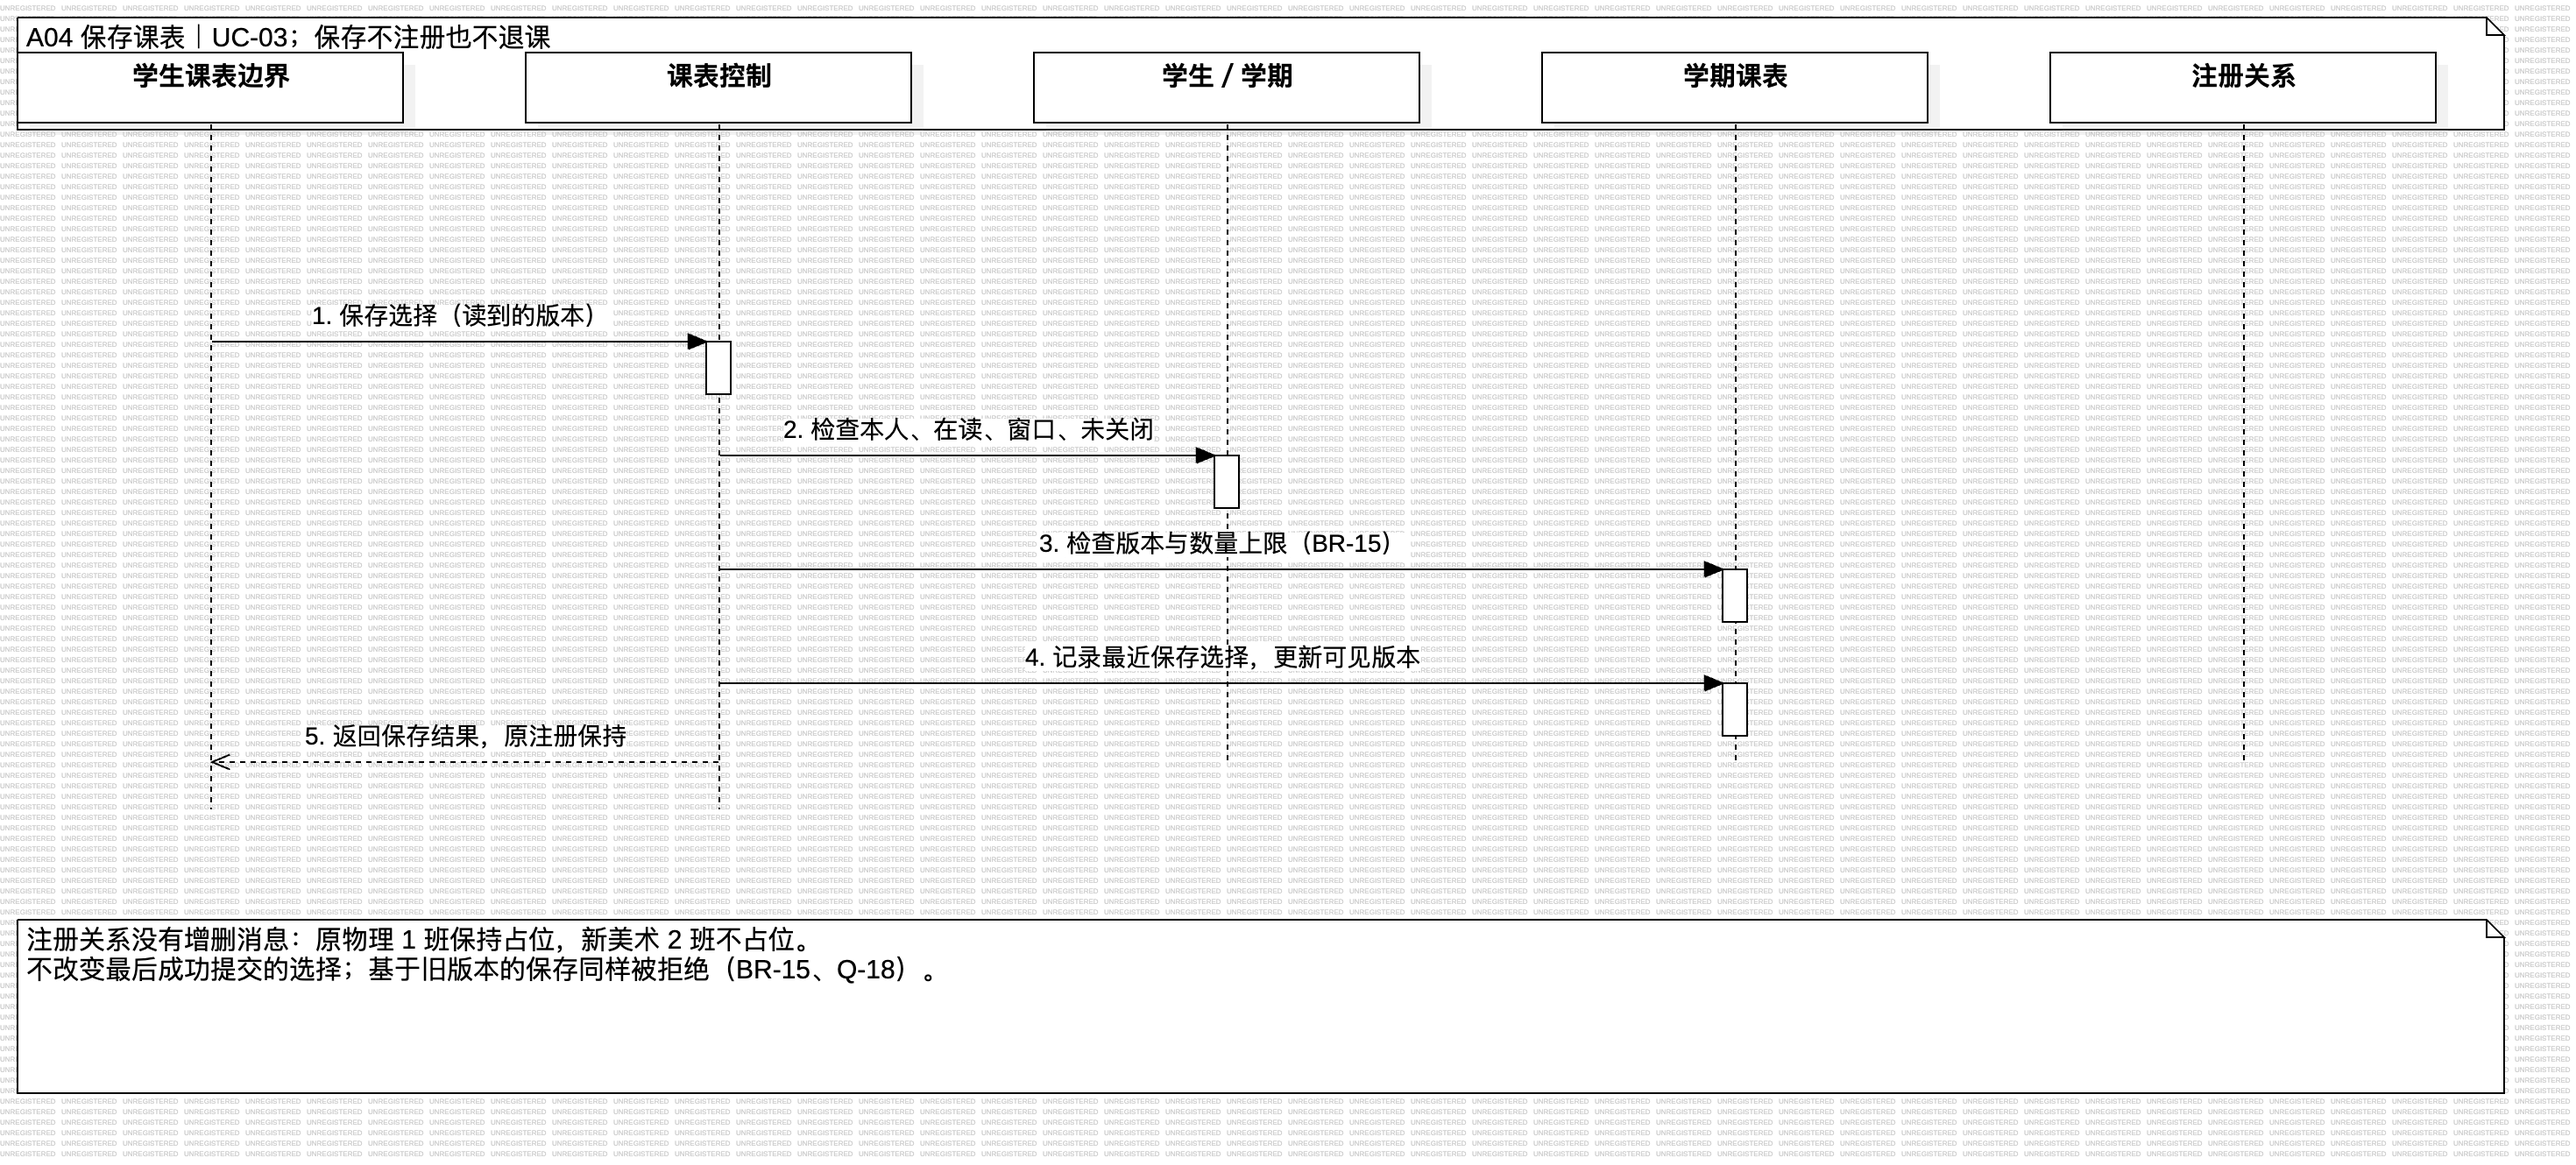
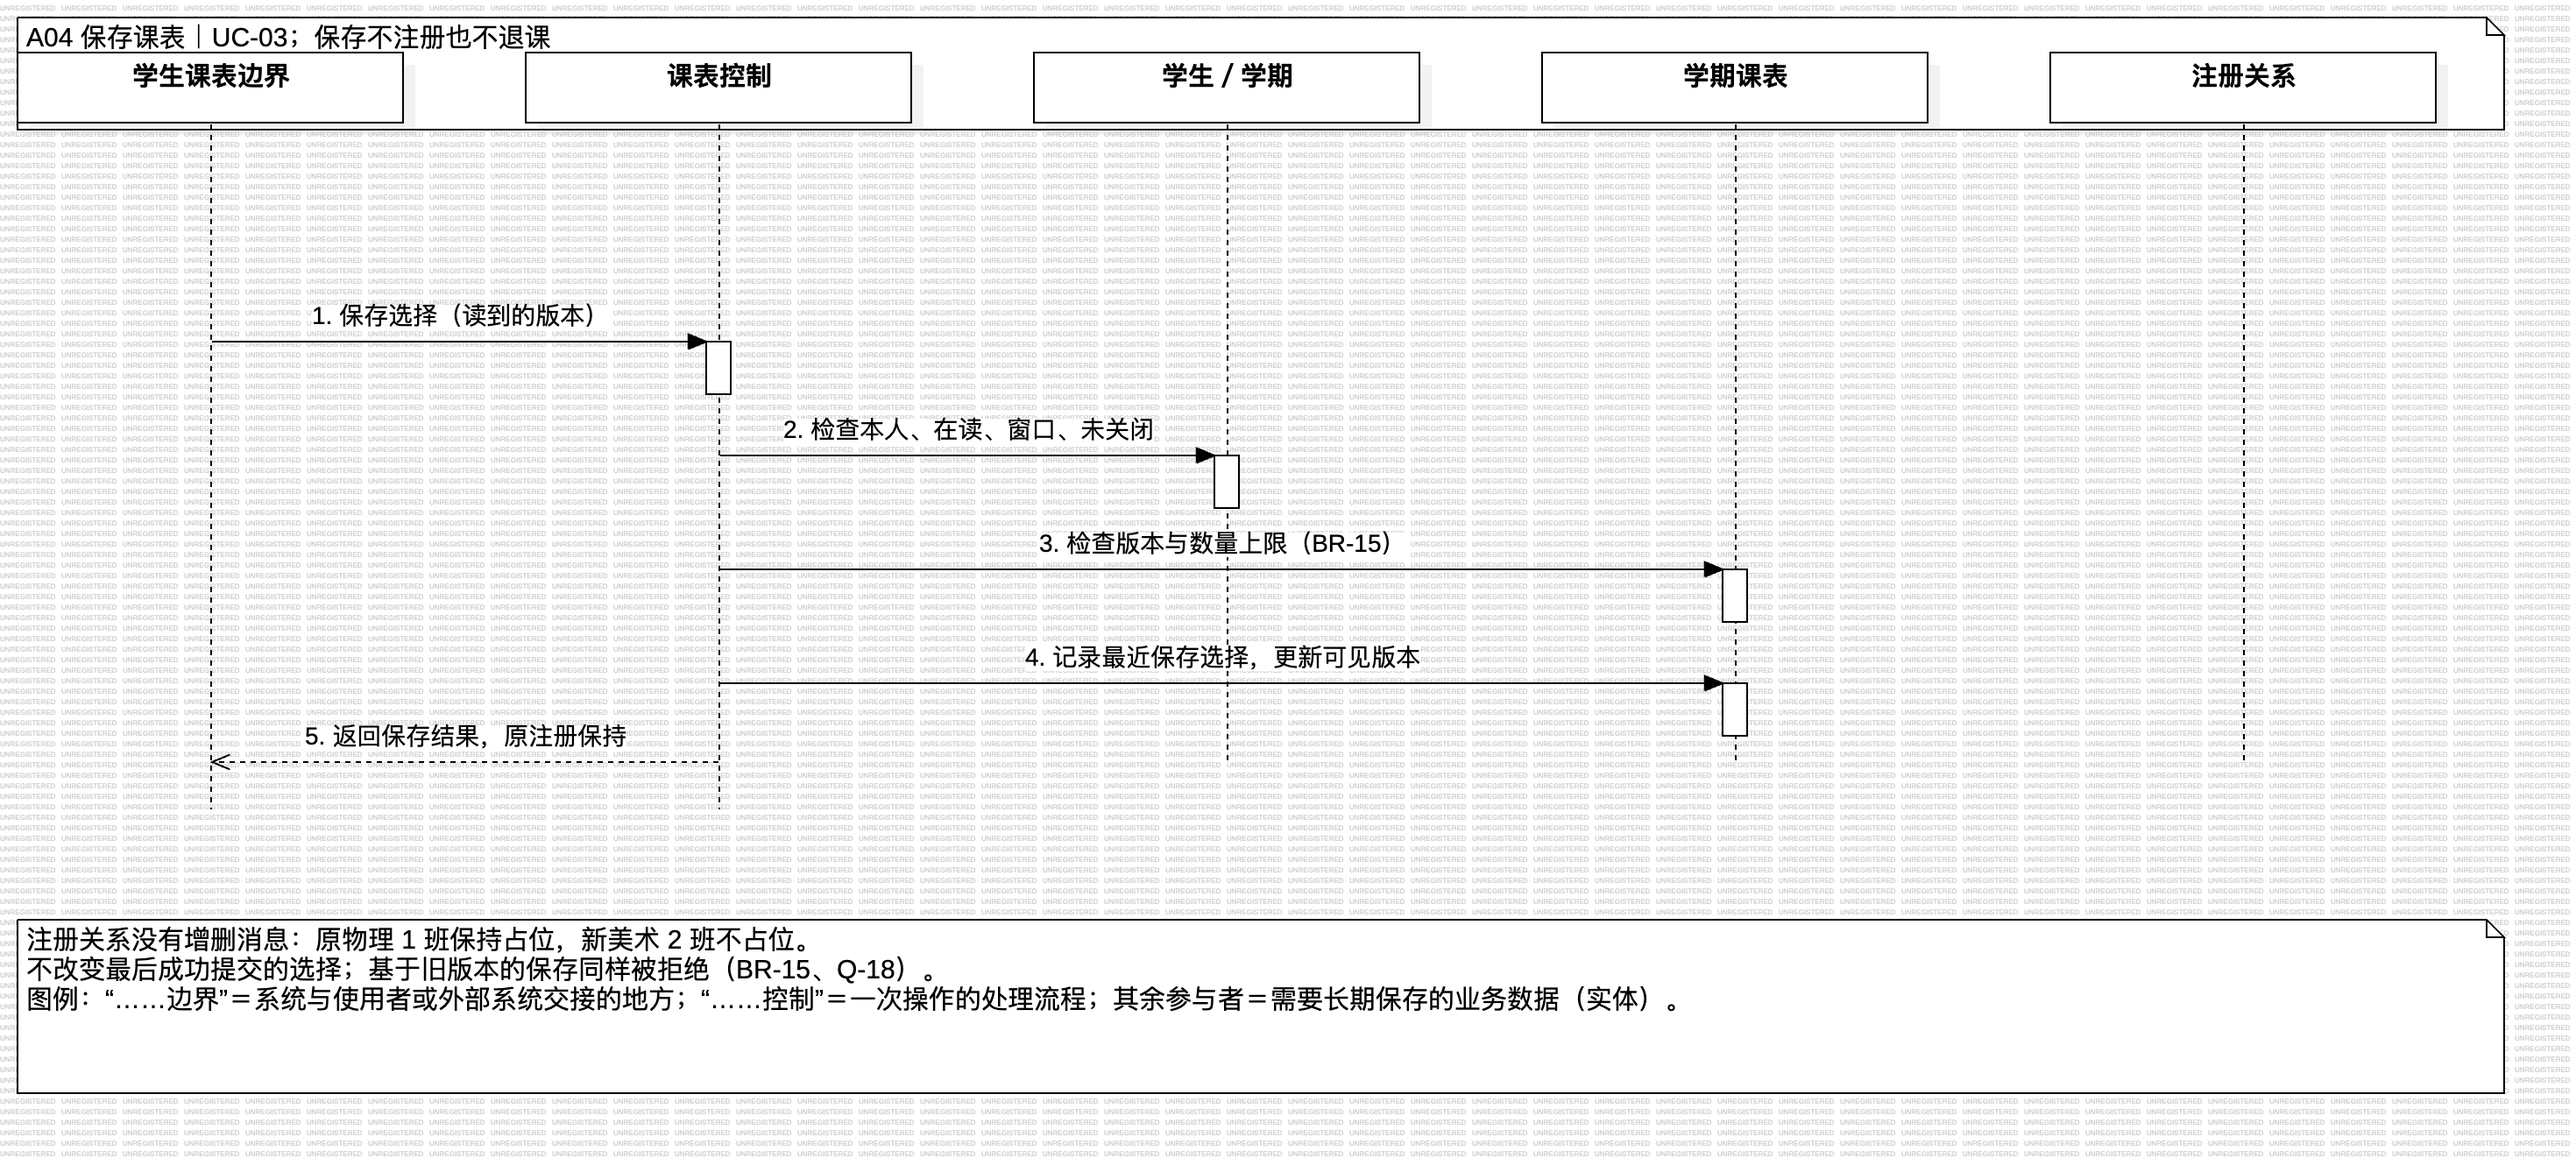
docs(analysis): 为A04—A07顺序图补充分析类图例 (US-028)
倪成锦补看分析图时反馈A04的“学生课表边界”等术语看不懂，在四张顺序图底部注释各加一行图例，说明边界、控制、实体，名称和其余对象不变；StarUML CLI重新导出并合成白底，OOA升至v0.4。
个人汇报2.4节写入对A04、A08的看法，以及“到点自动关闭、教务员手动优先”的意见；是否修改需求标为待定，需求与实现未改。
Markdown lint、仓库检查、diff检查与模型JSON解析通过；四张图已逐张查看。

Refs: US-028
AI-Assisted: Claude Code

Changed region(s): [[0.0619, 0.8323, 0.65, 0.8632], [0.0, 0.8323, 0.031, 0.8632]]

diff --git a/docs/work-reports/nichengjin/report.md b/docs/work-reports/nichengjin/report.md
@@ -123,7 +123,14 @@
 
 建模工具是我在选型时定的。课程主要要求交类图、顺序图等UML图，所以选StarUML，而不是用PlantUML一类文本工具。10月4日我让执行者安装StarUML MCP，并试着用脚本直接生成原生用例图。试用版导出带水印，我决定保留：水印反而能说明图来自真实StarUML模型，不是文本工具直接生成的图片。面向对象分析本身交给Agent完成；连线穿过节点、标签离关联端点太远等版面问题，是Agent逐张看图时自己查出并修正的。
 
-进入总体设计之前，我要求执行者把需求v0.4和OOA整体检查一遍。这次检查查出了R-01—R-04，也发现用例模型还放在被Git忽略的临时目录里、不会被提交；我决定把它移入正式模型目录。分析图我没有逐张审阅，模型是否正确，主要靠Agent的结构检查、看图检查和后续需求复核来保证。团队模型走查仍需真实记录。
+进入总体设计之前，我要求执行者把需求v0.4和OOA整体检查一遍。这次检查查出了R-01—R-04，也发现用例模型还放在被Git忽略的临时目录里、不会被提交；我决定把它移入正式模型目录。分析图在分析阶段我没有逐张审阅，当时模型是否正确，主要靠Agent的结构检查、看图检查和后续需求复核来保证。
+
+10月8日整理汇报时，我补看了两张与本报告主线直接相关的图：
+
+- **A08学期关闭状态图能看懂。**学期从“未关闭”经“正在关闭”到“已关闭”，关闭过程中内部出错就退回“未关闭”。看这张图时我提出一个与现设计不同的想法：按我们学校的习惯，选课截止时间一到就应该自动关闭；教务员手动关闭的优先级更高，可以提前关。现设计是系统不自动关闭，必须由教务员按“关闭选课”，原题的关闭选课用例也是由教务员发起的。**【待定】**是否据此修改需求和实现，还是只作为本人意见记录。
+- **A04保存课表顺序图一开始看不懂**，卡在“学生课表边界”“课表控制”这些名字上。这是课件的分析类术语：边界是系统与使用者或外部系统交接的地方，控制是一次操作的处理流程，其余是需要长期保存的业务数据（实体）。分析阶段只讲职责，所以不直接叫“页面”。图本身没有图例，不了解术语的人第一眼看不懂。我决定在图下加一行图例，不改名字，保留课件要求的术语。A04—A07四张顺序图用的是同一套命名，于是一起加上图例，重新导出（OOA v0.4）。
+
+这次补看让我意识到，图画得对，不等于读的人能看懂；分析模型也要考虑读者。团队模型走查仍需真实记录。
 
 ## 三、总体设计：先固定边界，再决定一致性机制
 
@@ -484,3 +491,4 @@ gate先进入CLOSING、关闭intent随后持久化，期间仍可能有删除请
 | 2026-10-08 | v0.2来源更正 | 根据用户补充确认修正人机协作和决策来源说明；各成员与Agent协作完成代码，人类负责决策，Amp主要用于统一撰写提交信息；不改变技术案例和测试结果 |
 | 2026-10-08 | v0.3 | 依据9月9日至10月8日的Claude Code、Codex及Amp历史会话，补写本人在需求澄清、建模工具、选型与授权、测试安排、性能判断、成员接手与汇报组织中的实际经历；剩余【待本人补充】为会话中没有记录的内容；更正验收执行线程链接 |
 | 2026-10-08 | v0.3续 | 按本人口头答复补写：早期与组内同学讨论规则的两条依据、保存占位的想法转变、未逐张审阅分析图、看过总体设计与数据表、预览系统的整体印象、与冯海伦讨论性能规模、本人选定ADR-003、模拟外部系统的理由及最主要收获 |
+| 2026-10-08 | v0.3续2 | 补写本人补看A04、A08的反馈：A08能看懂，并提出“到点自动关闭、教务员手动优先”的意见（是否修改待定）；A04的分析类术语看不懂，据此在A04—A07加图例 |

diff --git a/docs/design-docs/object-oriented-analysis.md b/docs/design-docs/object-oriented-analysis.md
@@ -1,6 +1,6 @@
 # 学生选课系统面向对象分析
 
-- 版本：v0.3，2026-10-05；状态：分析初稿，待团队评审，不是已确认的设计基线。
+- 版本：v0.4，2026-10-08；状态：分析初稿，待团队评审，不是已确认的设计基线。
 - 任务：US-024；迭代：IT-01；主责：倪成锦，各业务负责人及冯海伦评审。
 - 输入：[需求分析 v0.6](../REQUIREMENTS_ANALYSIS.md)，不在本文新增或修改业务规则。
 - 方法依据：[面向对象课件](../lecture-notes/text/10面向对象-需求建模+OOA.txt) 第 34—37 页：用例模型、对象模型、动态模型；分析类分实体、边界、控制三类，保持概念层，不添加技术细节。
@@ -274,3 +274,4 @@ done
 | 2026-10-05 | v0.1 | 建立分析类、职责映射、9 张图及 StarUML 源模型；记录 R-01 至 R-04 |
 | 2026-10-05 | v0.2 | 按需求分析 v0.5 关闭 R-02 至 R-04，同步 A01、A04 图注；移入用例模型并新增 U01 系统用例图 |
 | 2026-10-05 | v0.3 | 按需求分析 v0.6 关闭 R-01，同步 A07、A08 图注 |
+| 2026-10-08 | v0.4 | 倪成锦审阅时反馈 A04 中“学生课表边界”等分析类名称看不懂；A04—A07 顺序图底部注释各加一行图例，说明边界、控制、实体的含义，模型其余对象与图注不变；StarUML CLI 重新导出并合成白底 |
